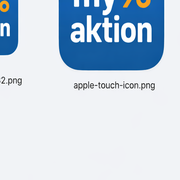
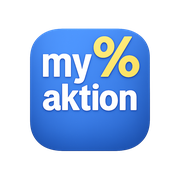
Add files via upload

diff --git a/index.html b/index.html
@@ -21,11 +21,18 @@
     .card{border-radius:1.5rem}
     .money{font-variant-numeric: tabular-nums;}
   </style>
+
+  <link rel="icon" href="/favicon.ico">
+  <link rel="icon" type="image/png" sizes="32x32" href="/static/favicon-32x32.png">
+  <link rel="icon" type="image/png" sizes="16x16" href="/static/favicon-16x16.png">
+  <link rel="apple-touch-icon" href="/apple-touch-icon.png">
+  <link rel="manifest" href="/site.webmanifest">
 </head>
 
-<link rel="icon" href="/static/favicon.ico">
-<link rel="icon" type="image/png" sizes="32x32" href="/static/favicon-32x32.png">
-<link rel="icon" type="image/png" sizes="16x16" href="/static/favicon-16x16.png">
+
+
+
+
 
 <body>
 <div class="max-w-3xl mx-auto px-4 py-6">
@@ -46,7 +53,7 @@
       <section>
         <div class="text-sm font-semibold mb-2">Foto</div>
 
-        <input id="file" type="file" accept="image/*" capture="environment" class="hidden">
+        <input id="file" type="file" accept="image/*" capture="environment" multiple class="hidden">
 
         <button id="btn" class="btn btn-primary w-full">
           📸 Foto aufnehmen
@@ -128,7 +135,7 @@
   };
 
   file.addEventListener('change', async ()=>{
-    const f = file.files && file.files[0];
+    const files = file.files;
     if(!f) return;
 
     // Preview
@@ -140,7 +147,7 @@
     setBusy(true, "Berechne Preise …");
 
     const fd = new FormData();
-    fd.append('file', f);
+    for (const f of files) { fd.append('files', f); }
 
     try{
       const res = await fetch('/api/scan', { method:'POST', body: fd });
